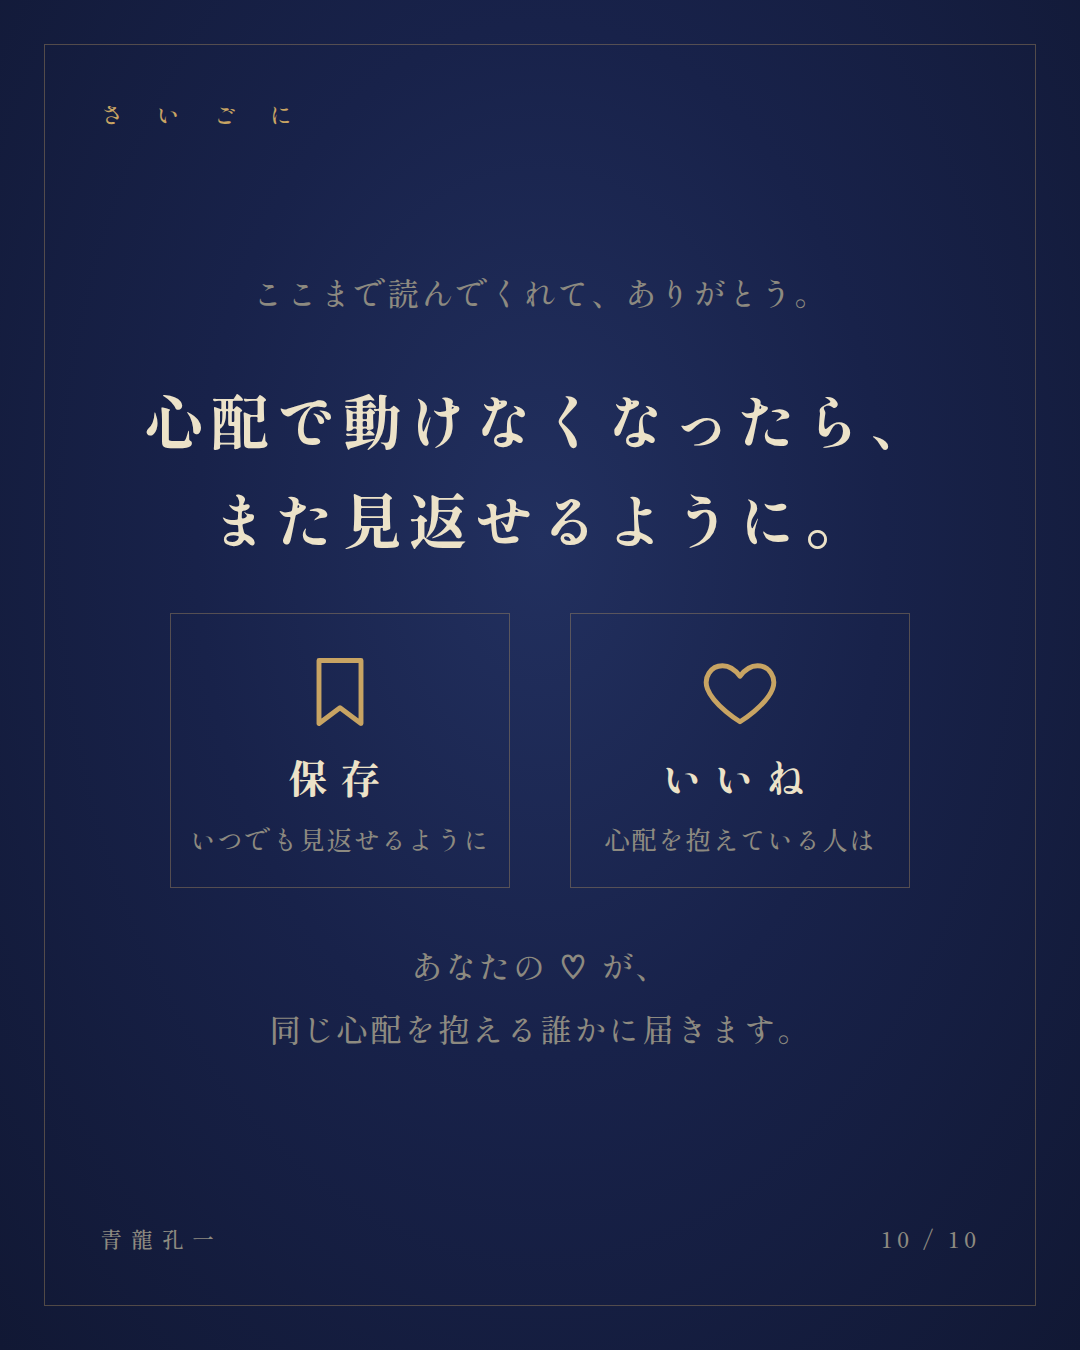
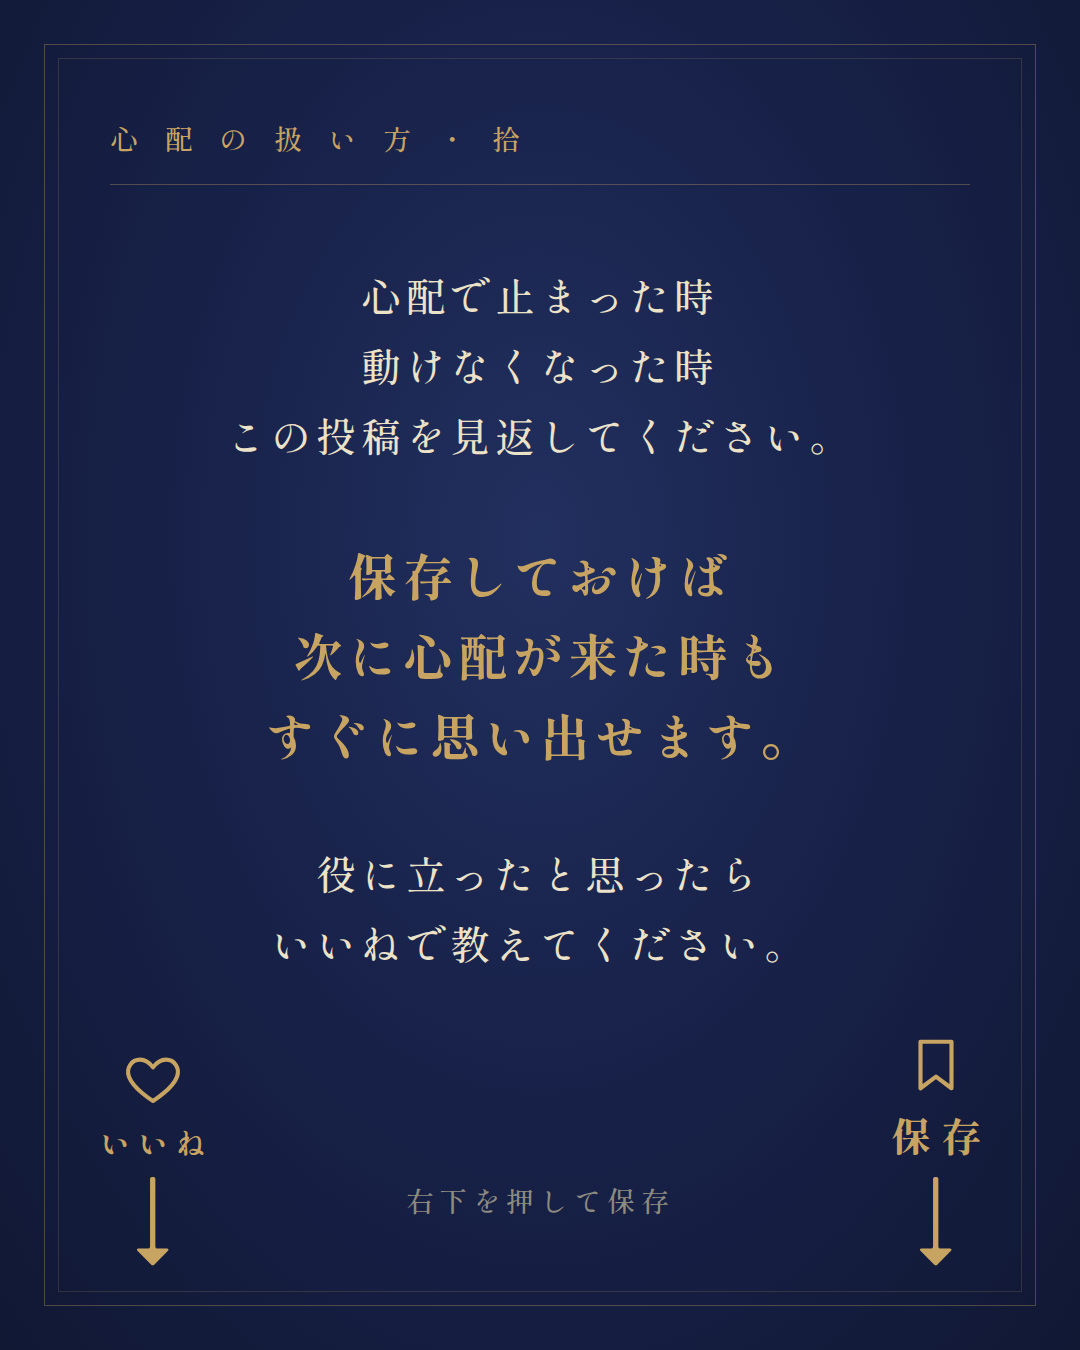
Match final save/like slide to the account's existing 9/10 format
Claude-Session: https://claude.ai/code/session_01JZZhMNBbYJEiGYB9QrXW8C

diff --git a/docs/posts/心配は案内係/slides.html b/docs/posts/心配は案内係/slides.html
@@ -33,6 +33,18 @@ p{font-size:38px;line-height:1.95;letter-spacing:.06em;color:var(--cream)}
 .act svg{width:84px;height:84px;fill:none;stroke:var(--gold);stroke-width:1.4;stroke-linejoin:round}
 .act b{font-size:40px;color:var(--cream);letter-spacing:.3em;font-weight:700}
 .act span{font-size:26px;color:var(--dim);letter-spacing:.05em}
+.fr2{position:absolute;inset:58px;border:1px solid rgba(200,164,99,.18)}
+.kk2{position:absolute;top:118px;left:110px;right:110px;font-size:28px;letter-spacing:.35em;color:var(--gold);padding-bottom:26px;border-bottom:1.5px solid var(--line)}
+.cta{position:absolute;top:260px;left:100px;right:100px;display:flex;flex-direction:column;align-items:center;text-align:center;gap:64px}
+.cta p{font-size:40px;line-height:1.75;letter-spacing:.12em}
+.cta .gb{font-size:50px;font-weight:700;color:var(--gold);line-height:1.6;letter-spacing:.1em}
+.lk,.sv{position:absolute;bottom:90px;display:flex;flex-direction:column;align-items:center;gap:10px;color:var(--cream)}
+.lk{left:100px}.sv{right:96px;color:var(--gold)}
+.lk svg,.sv svg{width:62px;height:62px;fill:none;stroke-width:1.6;stroke-linejoin:round}
+.lk svg{stroke:var(--gold)}.sv svg{stroke:var(--gold)}
+.lk span{font-size:30px;font-weight:700;color:var(--gold)}.sv span{font-size:40px;font-weight:700}
+.lk i,.sv i{font-style:normal;font-size:96px;line-height:.9;color:var(--gold);font-weight:300}
+.hint{position:absolute;bottom:130px;left:0;right:0;text-align:center;font-size:28px;letter-spacing:.2em;color:var(--dim)}
 </style></head><body>
 
 <section class="s"><div class="fr"></div><div class="kk">心 配 の 扱 い 方</div>
@@ -103,15 +115,16 @@ p{font-size:38px;line-height:1.95;letter-spacing:.06em;color:var(--cream)}
 <div class="rule"></div>
 <p>心配も、幸福への案内係。<br>ただし、心配に浸るな。</p>
 </div><div class="au">青龍孔一</div><div class="pg">9 / 10</div></section>
-<section class="s"><div class="fr"></div><div class="kk">さ い ご に</div>
-<div class="c" style="gap:46px">
-<p class="sm">ここまで読んでくれて、ありがとう。</p>
-<h2 style="font-size:60px">心配で動けなくなったら、<br>また見返せるように。</h2>
-<div class="acts">
-<div class="act"><svg viewBox="0 0 24 24"><path d="M6 3h12v18l-6-4.5L6 21z"/></svg><b>保存</b><span>いつでも見返せるように</span></div>
-<div class="act"><svg viewBox="0 0 24 24"><path d="M12 20.5s-7.5-4.6-9.3-9.4C1.5 7.9 3.6 4.5 7 4.5c2 0 3.6 1.1 5 3 1.4-1.9 3-3 5-3 3.4 0 5.5 3.4 4.3 6.6-1.8 4.8-9.3 9.4-9.3 9.4z"/></svg><b>いいね</b><span>心配を抱えている人は</span></div>
+<section class="s"><div class="fr"></div><div class="fr2"></div>
+<div class="kk2">心 配 の 扱 い 方 ・ 拾</div>
+<div class="cta">
+<p>心配で止まった時<br>動けなくなった時<br>この投稿を見返してください。</p>
+<p class="gb">保存しておけば<br>次に心配が来た時も<br>すぐに思い出せます。</p>
+<p>役に立ったと思ったら<br>いいねで教えてください。</p>
 </div>
-<p class="sm">あなたの ♡ が、<br>同じ心配を抱える誰かに届きます。</p>
-</div><div class="au">青龍孔一</div><div class="pg">10 / 10</div></section>
+<div class="lk"><svg viewBox="0 0 24 24"><path d="M12 20.5s-7.5-4.6-9.3-9.4C1.5 7.9 3.6 4.5 7 4.5c2 0 3.6 1.1 5 3 1.4-1.9 3-3 5-3 3.4 0 5.5 3.4 4.3 6.6-1.8 4.8-9.3 9.4-9.3 9.4z"/></svg><span>い い ね</span><i>↓</i></div>
+<div class="sv"><svg viewBox="0 0 24 24"><path d="M6 3h12v18l-6-4.5L6 21z"/></svg><span>保 存</span><i>↓</i></div>
+<div class="hint">右下を押して保存</div>
+</section>
 
 </body></html>

diff --git a/docs/posts/保存といいねの仕組み.md b/docs/posts/保存といいねの仕組み.md
@@ -8,25 +8,25 @@
   - 初六（童観）＝目に見える得で判断 → **何かあげる＝保存できる1枚**を必ず入れる
   - 六二（闚観）＝結果が見えると動く → 答え合わせ・的中の記録の回は、結果の1枚を見えるように
 
-## 保存を促す仕掛け（3か所）
-1. **表紙の右上に「保存版」の札**：開く前から「取っておくもの」だと分かる。
-2. **後ろから3枚目に「保存版」の1枚**：その回の教えを、行動3つのチェックリストに落とす。
-   - 見出しは「〇〇が来たら、この3つ。」の形。
-   - 一番下に「迷ったら、この画面に戻ってきて。」＝見返す理由を書く。
-3. **最後の1枚の左側に「保存」**（しおりのアイコン＋「いつでも見返せるように」）。
+## 最後の1枚（アカウントで使っている型：十月の指針 9/10 と同じ）
+- 左上に「シリーズ名・漢数字」（例：十月の指針・玖／心配の扱い方・拾）、下に細い罫線。二重の金枠。
+- 中央は3段：
+  1. 生成り：「〇〇な時／〇〇な時／この投稿を見返してください。」＝**見返す場面**を具体的に示す
+  2. 金・太字：「保存しておけば／〇〇も／〇〇できます。」＝**保存する得**を示す（指針の回は「11月の答え合わせも一緒に確かめられます」）
+  3. 生成り：「〇〇と思ったら／いいねで教えてください。」＝**いいねの理由**を一つだけ
+- 下の左に ♡「いいね」＋下向き矢印、右に しおり「保存」＋下向き矢印。矢印はインスタの実際のボタンの位置を指す（いいね＝左下、保存＝右下）。
+- 中央下に小さく「右下を押して保存」。
 
-## いいねを促す仕掛け（2か所）
-1. **最後の1枚の右側に「いいね」**（ハートのアイコン＋「〇〇な人は」）。
-   - いいねを「評価」ではなく「自分も当てはまる、という合図」にする。押す理由が自分ごとになる。
-2. **「あなたの ♡ が、同じ悩みを抱える誰かに届きます。」**
-   - いいねが他の人の役に立つ、という理由を添える（押す罪悪感をなくす）。
+## 補助の仕掛け
+- 表紙の右上に「保存版」の札。
+- 後ろから3枚目に「保存版」の1枚（「〇〇が来たら、この3つ。」のチェックリスト＋「迷ったら、この画面に戻ってきて。」）。
 
 ## キャプションの型
 - 1行目：表紙と同じ題名
 - 2行目：（あとで見返せるように、保存しておいてください）
 - 本文：スライドの要約
 - 保存版の3つをそのまま箇条書きで再掲（キャプションだけ読む人にも保存の価値を見せる）
-- 末尾：「今、〇〇な人は ♡ で教えてください。同じ〇〇を抱える誰かに、この投稿が届きます。」
+- 末尾：最後の1枚と同じ言葉で「〇〇な時に見返せるように保存を」「〇〇と思ったらいいねで教えてください」
 - ハッシュタグ
 
 ## スライド構成（10枚）
@@ -36,9 +36,9 @@
 | 2〜7 | 本文（1枚1メッセージ） |
 | 8 | 保存版：〇〇が来たら、この3つ。 |
 | 9 | 結び（易の教え一言） |
-| 10 | さいごに：保存／いいね の2枠 |
+| 10 | 保存といいねの1枚（上の型） |
 
 ## 測り方
 - 保存数：表紙の題名と「保存版」の1枚の出来を見る指標。
-- いいね数：最後の1枚の「〇〇な人は」が刺さったかを見る指標。
+- いいね数：最後の1枚の「〇〇と思ったら」が刺さったかを見る指標。
 - プレイブックの方針どおり、数字より「続けた本数・プロフ訪問・LINE追加」を優先する。
